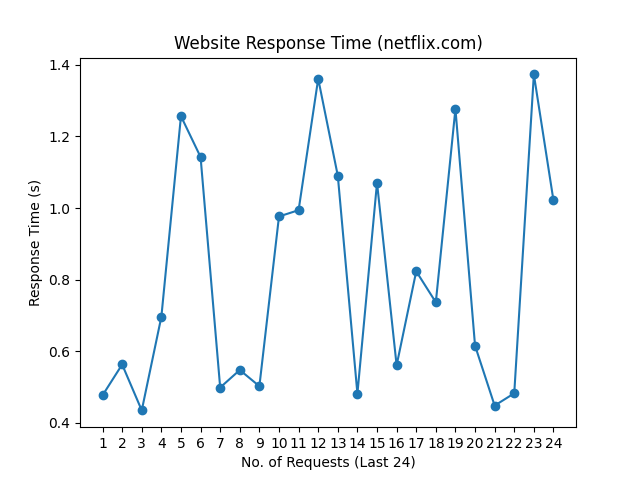
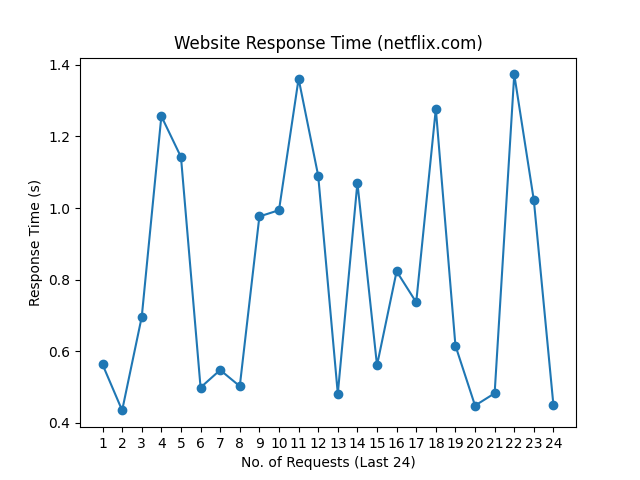
update README.md, history and graph

Changed region(s): [[0.1562, 0.125, 0.875, 0.875]]

diff --git a/README.md b/README.md
@@ -1,10 +1,10 @@
 # Web Monitoring
 
-Last Checked: 31/01/2024 09:00
+Last Checked: 01/02/2024 09:03
 
 | Website | Response Time (s) | Status | Avg Uptime (%) |
 |---------|-------------------|--------|----------------|
 | www.thiswebsiteisdown.net | 0 <br> <img src="graph/thiswebsiteisdown.net.png" alt="Graph" width="200" height="200">  | ❌ Down | 0.00 |
-| www.netflix.com | 1.021449 <br> <img src="graph/netflix.com.png" alt="Graph" width="200" height="200">  | ✅ Up | 100.00 |
-| www.google.com | 0.100873 <br> <img src="graph/google.com.png" alt="Graph" width="200" height="200">  | ✅ Up | 100.00 |
-| www.facebook.com | 0.508034 <br> <img src="graph/facebook.com.png" alt="Graph" width="200" height="200">  | ✅ Up | 100.00 |
+| www.netflix.com | 0.448940 <br> <img src="graph/netflix.com.png" alt="Graph" width="200" height="200">  | ✅ Up | 100.00 |
+| www.google.com | 0.091598 <br> <img src="graph/google.com.png" alt="Graph" width="200" height="200">  | ✅ Up | 100.00 |
+| www.facebook.com | 0.224877 <br> <img src="graph/facebook.com.png" alt="Graph" width="200" height="200">  | ✅ Up | 100.00 |
